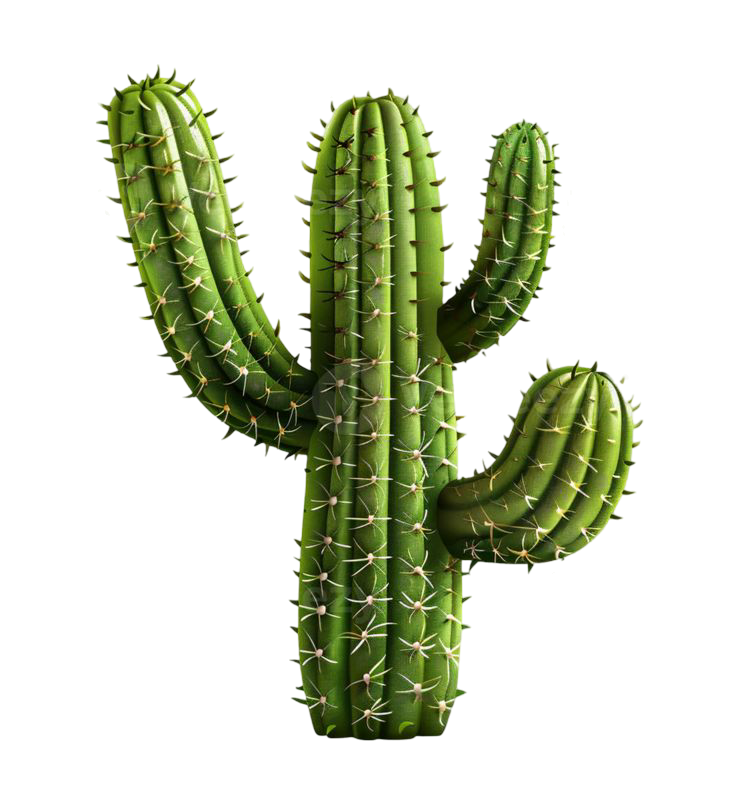
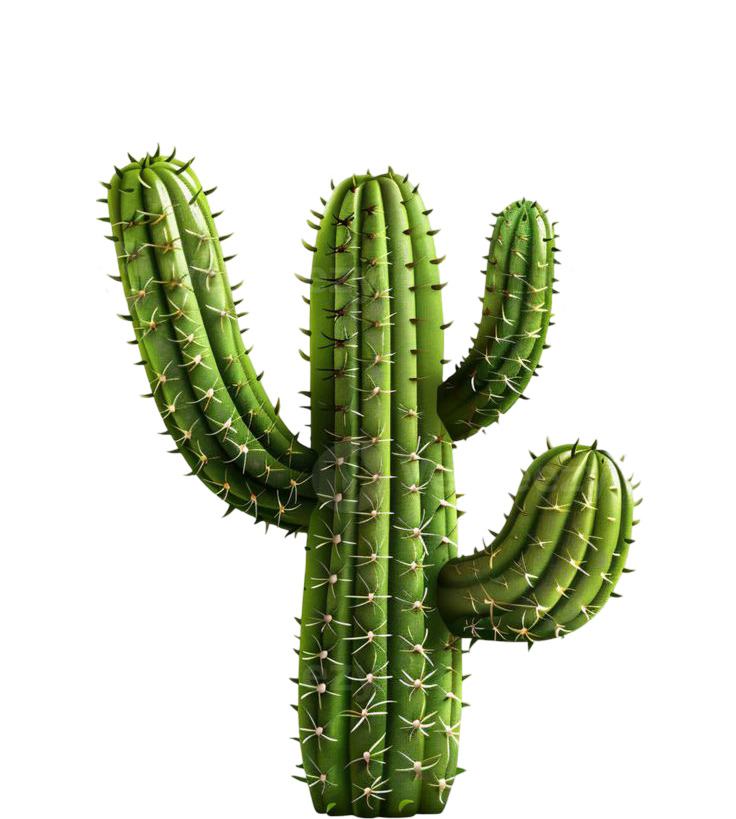
v0.0.2.6.0

diff --git a/game.js b/game.js
@@ -64,24 +64,25 @@ const DROP_LIFETIME = 180000; // 3 минуты
 
 // Типы монстров
 const MONSTER_TYPES = {
-  zombie:   { name:'Зомби', texKey:'monster_zombie', hp:35, damage:15, moveDelay:600, chaseRange:4, attackRange:1, attackCD:800, spawnTime:'night', biomes:['grass','forest','snow'], maxPerChunk:2, color:'#5a7a3a', xpReward:25, drops:[{name:'Кость',emoji:'🦴',texKey:'item_bone',chance:0.6},{name:'Гнилая плоть',emoji:'🥩',texKey:'item_rotten_flesh',chance:0.3}] },
-  skeleton: { name:'Скелет', texKey:'monster_skeleton', hp:25, damage:10, moveDelay:400, chaseRange:5, attackRange:2, attackCD:600, spawnTime:'night', biomes:['stone','grass','snow'], maxPerChunk:2, color:'#ddd', xpReward:20, drops:[{name:'Кость',emoji:'🦴',texKey:'item_bone',chance:0.8},{name:'Лук',emoji:'🏹',texKey:'item_bow',chance:0.1}] },
-  fallen:   { name:'Падший', texKey:'monster_fallen', hp:20, damage:7, moveDelay:300, chaseRange:6, attackRange:1, attackCD:400, spawnTime:'night', biomes:['grass','sand'], maxPerChunk:2, color:'#cc4444', xpReward:15, drops:[{name:'Клык',emoji:'🦷',texKey:'item_fang',chance:0.5},{name:'Кожа',emoji:'🧥',texKey:'item_leather',chance:0.4}] },
-  demon:    { name:'Демон', texKey:'monster_demon', hp:50, damage:20, moveDelay:450, chaseRange:7, attackRange:2, attackCD:700, spawnTime:'night', biomes:['stone'], maxPerChunk:1, color:'#ff4400', burnsInDay:true, xpReward:50, drops:[{name:'Сердце демона',emoji:'❤️🔥',texKey:'item_demon_heart',chance:0.4},{name:'Пепел',emoji:'🪶',texKey:'item_ash',chance:0.7}] },
-  ghoul:    { name:'Упырь', texKey:'monster_ghoul', hp:30, damage:12, moveDelay:250, chaseRange:8, attackRange:1, attackCD:350, spawnTime:'night', biomes:['forest','grass'], maxPerChunk:2, color:'#9966cc', burnsInDay:true, xpReward:30, drops:[{name:'Клык',emoji:'🦷',texKey:'item_fang',chance:0.5},{name:'Зелье',emoji:'🧪',texKey:'item_potion',chance:0.2}] },
-  shadow:   { name:'Тень', texKey:'monster_shadow', hp:15, damage:8, moveDelay:500, chaseRange:6, attackRange:2, attackCD:500, spawnTime:'night', biomes:['stone','forest'], maxPerChunk:1, color:'#222244', burnsInDay:true, xpReward:35, drops:[{name:'Тёмная пыль',emoji:'✨',texKey:'item_dark_dust',chance:0.6},{name:'Душа',emoji:'👻',texKey:'item_soul',chance:0.3}] },
-  imp:      { name:'Бес', texKey:'monster_imp', hp:18, damage:6, moveDelay:350, chaseRange:5, attackRange:3, attackCD:500, spawnTime:'any', biomes:['stone','sand'], maxPerChunk:1, color:'#ff8800', xpReward:18, drops:[{name:'Рог беса',emoji:'👿',texKey:'item_imp_horn',chance:0.5},{name:'Сера',emoji:'💛',texKey:'item_sulfur',chance:0.4}] },
-  wolf:     { name:'Волк', texKey:'monster_wolf', hp:22, damage:9, moveDelay:350, chaseRange:5, attackRange:1, attackCD:450, spawnTime:'day', biomes:['forest','grass','snow'], maxPerChunk:1, color:'#888', neutral:true, xpReward:12, drops:[{name:'Волчья шкура',emoji:'🐺',texKey:'item_wolf_pelt',chance:0.5},{name:'Клык',emoji:'🦷',texKey:'item_fang',chance:0.6}] },
-  boar:     { name:'Кабан', texKey:'monster_boar', hp:30, damage:11, moveDelay:400, chaseRange:4, attackRange:1, attackCD:500, spawnTime:'day', biomes:['grass','forest'], maxPerChunk:1, color:'#6b4c2b', neutral:true, xpReward:15, drops:[{name:'Кабанья шкура',emoji:'🐗',texKey:'item_boar_pelt',chance:0.5},{name:'Мясо',emoji:'🥩',texKey:'item_meat',chance:0.7}] },
-  spider: { name:'🕷️ Паук', texKey:'monster_spider', hp:15, damage:8, moveDelay:350, chaseRange:5, attackRange:1, attackCD:600, spawnTime:'any', biomes:['forest','grass'], maxPerChunk:1, color:'#444444', xpReward:12, drops:[{name:'🕸️ Паутина',emoji:'🕸️',texKey:'item_web',chance:0.7},{name:'🦷 Ядовитый клык',emoji:'🦷',texKey:'item_venom_fang',chance:0.3}] }
+  zombie:   { name:'Зомби', texKey:'monster_zombie', hp:35, damage:15, moveDelay:600, chaseRange:4, attackRange:1, attackCD:800, spawnTime:'night', biomes:['grass','forest','snow'], maxPerChunk:2, color:'#5a7a3a', xpReward:25, drops:[{name:'Кость',emoji:'🦴',texKey:'item_bone',chance:0.6},{name:'Гнилая плоть',emoji:'🥩',texKey:'item_rotten_flesh',chance:0.3}], spawnChance: 0.015},
+  skeleton: { name:'Скелет', texKey:'monster_skeleton', hp:25, damage:10, moveDelay:400, chaseRange:5, attackRange:2, attackCD:600, spawnTime:'night', biomes:['stone','grass','snow'], maxPerChunk:2, color:'#ddd', xpReward:20, drops:[{name:'Кость',emoji:'🦴',texKey:'item_bone',chance:0.8},{name:'Лук',emoji:'🏹',texKey:'item_bow',chance:0.1}], spawnChance: 0.012 },
+  fallen:   { name:'Падший', texKey:'monster_fallen', hp:20, damage:7, moveDelay:300, chaseRange:6, attackRange:1, attackCD:400, spawnTime:'night', biomes:['grass','sand'], maxPerChunk:2, color:'#cc4444', xpReward:15, drops:[{name:'Клык',emoji:'🦷',texKey:'item_fang',chance:0.5},{name:'Кожа',emoji:'🧥',texKey:'item_leather',chance:0.4}], spawnChance: 0.010 },
+  demon:    { name:'Демон', texKey:'monster_demon', hp:50, damage:20, moveDelay:450, chaseRange:7, attackRange:2, attackCD:700, spawnTime:'night', biomes:['stone'], maxPerChunk:1, color:'#ff4400', burnsInDay:true, xpReward:50, drops:[{name:'Сердце демона',emoji:'❤️🔥',texKey:'item_demon_heart',chance:0.4},{name:'Пепел',emoji:'🪶',texKey:'item_ash',chance:0.7}], spawnChance: 0.005 },
+  ghoul:    { name:'Упырь', texKey:'monster_ghoul', hp:30, damage:12, moveDelay:250, chaseRange:8, attackRange:1, attackCD:350, spawnTime:'night', biomes:['forest','grass'], maxPerChunk:2, color:'#9966cc', burnsInDay:true, xpReward:30, drops:[{name:'Клык',emoji:'🦷',texKey:'item_fang',chance:0.5},{name:'Зелье',emoji:'🧪',texKey:'item_potion',chance:0.2}], spawnChance: 0.010 },
+  shadow:   { name:'Тень', texKey:'monster_shadow', hp:15, damage:8, moveDelay:500, chaseRange:6, attackRange:2, attackCD:500, spawnTime:'night', biomes:['stone','forest'], maxPerChunk:1, color:'#222244', burnsInDay:true, xpReward:35, drops:[{name:'Тёмная пыль',emoji:'✨',texKey:'item_dark_dust',chance:0.6},{name:'Душа',emoji:'👻',texKey:'item_soul',chance:0.3}], spawnChance: 0.006 },
+  imp:      { name:'Бес', texKey:'monster_imp', hp:18, damage:6, moveDelay:350, chaseRange:5, attackRange:3, attackCD:500, spawnTime:'any', biomes:['stone','sand'], maxPerChunk:1, color:'#ff8800', xpReward:18, drops:[{name:'Рог беса',emoji:'👿',texKey:'item_imp_horn',chance:0.5},{name:'Сера',emoji:'💛',texKey:'item_sulfur',chance:0.4}], spawnChance: 0.004 },
+  wolf:     { name:'Волк', texKey:'monster_wolf', hp:22, damage:9, moveDelay:350, chaseRange:5, attackRange:1, attackCD:450, spawnTime:'day', biomes:['forest','grass','snow'], maxPerChunk:1, color:'#888', neutral:true, xpReward:12, drops:[{name:'Волчья шкура',emoji:'🐺',texKey:'item_wolf_pelt',chance:0.5},{name:'Клык',emoji:'🦷',texKey:'item_fang',chance:0.6}], spawnChance: 0.007 },
+  boar:     { name:'Кабан', texKey:'monster_boar', hp:30, damage:11, moveDelay:400, chaseRange:4, attackRange:1, attackCD:500, spawnTime:'day', biomes:['grass','forest'], maxPerChunk:1, color:'#6b4c2b', neutral:true, xpReward:15, drops:[{name:'Кабанья шкура',emoji:'🐗',texKey:'item_boar_pelt',chance:0.5},{name:'Мясо',emoji:'🥩',texKey:'item_meat',chance:0.7}], spawnChance: 0.005 },
+  spider:   { name:'🕷️ Паук', texKey:'monster_spider', hp:15, damage:8, moveDelay:350, chaseRange:5, attackRange:1, attackCD:600, spawnTime:'any', biomes:['forest','grass'], maxPerChunk:1, color:'#444444', xpReward:12, drops:[{name:'🕸️ Паутина',emoji:'🕸️',texKey:'item_web',chance:0.7},{name:'🦷 Ядовитый клык',emoji:'🦷',texKey:'item_venom_fang',chance:0.3}], spawnChance: 0.003 },
+  snake:    { name:'Змея', texKey:'monster_snake', hp:15, damage:6, moveDelay:350, chaseRange:5, attackRange:2, attackCD:800, spawnTime:'any', biomes:['sand'], maxPerChunk:1, color:'#137400', xpReward:12, drops:[{name:'Кожа',emoji:'🧥',texKey:'item_leather',chance:0.5},{name:'🦷 Ядовитый клык',emoji:'🦷',texKey:'item_venom_fang',chance:0.4}], spawnChance: 0.005 }
 };
 
 // Мирные
 const PEACEFUL_TYPES = {
-  cow:    { name:'Корова', texKey:'animal_cow', hp:15, color:'#f5f5dc', dropName:'🥩 Мясо', dropEmoji:'🥩', dropTexKey:'item_meat', dropHeal:20, xpReward:5, biomes:['grass'], maxPerChunk:1 },
-  deer:   { name:'Олень', texKey:'animal_deer', hp:12, color:'#c4a46c', dropName:'🍖 Оленина', dropEmoji:'🍖', dropTexKey:'item_venison', dropHeal:15, xpReward:8, biomes:['forest', 'snow'], maxPerChunk:1 },
-  rabbit: { name:'Кролик', texKey:'animal_rabbit', hp:5, color:'#ccc', dropName:'🍗 Крольчатина', dropEmoji:'🍗', dropTexKey:'item_rabbit_meat', dropHeal:8, xpReward:3, biomes:['grass','forest'], maxPerChunk:2 },
-  chicken:{ name:'Курица', texKey:'animal_chicken', hp:3, color:'#fff', dropName:'🍳 Яйцо', dropEmoji:'🍳', dropTexKey:'item_egg', dropHeal:5, xpReward:2, biomes:['grass'], maxPerChunk:1 }
+  cow:    { name:'Корова', texKey:'animal_cow', hp:15, color:'#f5f5dc', dropName:'🥩 Мясо', dropEmoji:'🥩', dropTexKey:'item_meat', dropHeal:20, xpReward:5, biomes:['grass'], maxPerChunk:1, spawnChance: 0.003 },
+  deer:   { name:'Олень', texKey:'animal_deer', hp:12, color:'#c4a46c', dropName:'🍖 Оленина', dropEmoji:'🍖', dropTexKey:'item_venison', dropHeal:15, xpReward:8, biomes:['forest', 'snow'], maxPerChunk:1, spawnChance: 0.003 },
+  rabbit: { name:'Кролик', texKey:'animal_rabbit', hp:5, color:'#ccc', dropName:'🍗 Крольчатина', dropEmoji:'🍗', dropTexKey:'item_rabbit_meat', dropHeal:8, xpReward:3, biomes:['grass','forest'], maxPerChunk:2, spawnChance: 0.006 },
+  chicken:{ name:'Курица', texKey:'animal_chicken', hp:3, color:'#fff', dropName:'🍳 Яйцо', dropEmoji:'🍳', dropTexKey:'item_egg', dropHeal:5, xpReward:2, biomes:['grass'], maxPerChunk:1, spawnChance: 0.008 }
 };
 
 // Ресурсы
@@ -91,8 +92,8 @@ const RESOURCE_TYPES = {
   stone:  { name:'Камень', texKey:'stone', hp:30, color:'#888', h:8, drops:[{name:'Булыжник',emoji:'🪨',texKey:'item_rock',chance:1.0,count:2},{name:'Кремень',emoji:'💎',texKey:'item_flint',chance:0.3,count:1}] },
   ore:    { name:'Руда', texKey:'ore', hp:40, color:'#5b9bd5', h:9, drops:[{name:'Железная руда',emoji:'⛏️',texKey:'item_iron_ore',chance:1.0,count:2},{name:'Золотой самородок',emoji:'🌟',texKey:'item_gold_nugget',chance:0.1,count:1}] },
   cactus: { name:'Кактус', texKey:'cactus', hp:15, color:'#5a8a3a', h:12, drops:[{name:'Кактус',emoji:'🌵',texKey:'item_cactus',chance:1.0,count:1},{name:'Вода',emoji:'💧',texKey:'item_water',chance:0.5,count:1}] },
-snow_tree: { name:'Заснеженное дерево', texKey:'snow_tree', hp:25, color:'#d0d8e0', h:14, drops:[{name:'Древесина',emoji:'🪵',texKey:'item_wood',chance:1.0,count:2},{name:'Палка',emoji:'🥢',texKey:'item_stick',chance:0.5,count:1},{name:'Снежок',emoji:'❄️',texKey:'item_snowball',chance:0.6,count:1}] },
-ice_rock: { name:'Ледяной камень', texKey:'stone', hp:35, color:'#c8d8f0', h:8, drops:[{name:'Булыжник',emoji:'🪨',texKey:'item_rock',chance:1.0,count:2},{name:'Лёд',emoji:'🧊',texKey:'item_ice',chance:0.5,count:1}] }
+  snow_tree: { name:'Заснеженное дерево', texKey:'snow_tree', hp:25, color:'#d0d8e0', h:14, drops:[{name:'Древесина',emoji:'🪵',texKey:'item_wood',chance:1.0,count:2},{name:'Палка',emoji:'🥢',texKey:'item_stick',chance:0.5,count:1},{name:'Снежок',emoji:'❄️',texKey:'item_snowball',chance:0.6,count:1}] },
+  ice_rock: { name:'Ледяной камень', texKey:'stone', hp:35, color:'#c8d8f0', h:8, drops:[{name:'Булыжник',emoji:'🪨',texKey:'item_rock',chance:0.5,count:2},{name:'Лёд',emoji:'🧊',texKey:'item_ice',chance:0.5,count:1}] }
 };
 
 // Рецепты
@@ -169,6 +170,7 @@ const TEXTURE_PATHS = {
   monster_shadow:'img/monster_shadow.png',
   monster_imp:'img/monster_imp.png',
   monster_spider: 'img/monster_spider.png',
+  monster_snake: 'img/monster_snake.png',
   monster_wolf: 'img/monster_wolf.png',
   monster_boar:'img/monster_boar.png',
   monster_default:'img/monster_default.png',
@@ -455,32 +457,45 @@ function smoothNoise(x, y) {
   return hash(ix,iy)*(1-fx)*(1-fy)+hash(ix+1,iy)*fx*(1-fy)+hash(ix,iy+1)*(1-fx)*fy+hash(ix+1,iy+1)*fx*fy;
 }
 function getTile(tx, ty) {
-  // Температура и влажность — крупные биомы (низкая частота = плавнее)
-  let temperature = smoothNoise(tx * 0.04 + 100, ty * 0.04 + 100);  // 0..1
-  let humidity = smoothNoise(tx * 0.04 + 300, ty * 0.04 + 300);      // 0..1
-  
-  // Вода — отдельный шум (озёра, не лужи)
+  let temperature = smoothNoise(tx * 0.04 + 100, ty * 0.04 + 100);
+  let humidity = smoothNoise(tx * 0.04 + 300, ty * 0.04 + 300);
   let waterNoise = smoothNoise(tx * 0.06 + 500, ty * 0.06 + 500);
   
-  // Вода: только где шум высокий (озёра, а не везде)
-  if (waterNoise > 0.55) return { base: 1, biome: 'water' };
+  // Вода
+  if (waterNoise > 0.62) return { base: 1, biome: 'water', blend: null };
   
-  // Снег: холодно + любая влажность
-  if (temperature < 0.3) return { base: 5, biome: 'snow' };
+  // Снег — с переходом к траве/лесу
+  if (temperature < 0.35) {
+    if (temperature < 0.28) return { base: 5, biome: 'snow', blend: null };
+    // Переходная зона снег → трава/лес
+    let blendAmount = (0.35 - temperature) / 0.07; // 1 = снег, 0 = трава
+    let otherBase = humidity > 0.55 ? 0 : 0; // forest или grass
+    return { base: 5, biome: 'snow', blend: { base: otherBase, amount: 1 - blendAmount } };
+  }
   
-  // Пустыня: жарко + сухо
-  if (temperature > 0.65 && humidity < 0.45) return { base: 2, biome: 'sand' };
+  // Пустыня — с переходом к траве
+  if (temperature > 0.60 && humidity < 0.50) {
+    if (temperature > 0.68) return { base: 2, biome: 'sand', blend: null };
+    let blendAmount = (temperature - 0.60) / 0.08;
+    return { base: 0, biome: 'grass', blend: { base: 2, amount: blendAmount } };
+  }
   
-  // Камень: высокая температура или хаотично
-  if (temperature > 0.7 || (temperature > 0.5 && humidity < 0.3)) return { base: 3, biome: 'stone' };
+  // Камень — с переходом
+  if (temperature > 0.68 || (temperature > 0.50 && humidity < 0.30)) {
+    if (temperature > 0.72 || humidity < 0.22) return { base: 3, biome: 'stone', blend: null };
+    let blendAmount = 0.5;
+    return { base: 0, biome: 'grass', blend: { base: 3, amount: blendAmount } };
+  }
   
-  // Лес: средняя температура + высокая влажность
-  if (humidity > 0.55) return { base: 0, biome: 'forest' };
+  // Лес — с переходом к траве
+  if (humidity > 0.50) {
+    if (humidity > 0.60) return { base: 0, biome: 'forest', blend: null };
+    let blendAmount = (0.60 - humidity) / 0.10;
+    return { base: 0, biome: 'forest', blend: { base: 0, amount: blendAmount } };
+  }
   
-  // Трава: всё остальное
-  return { base: 0, biome: 'grass' };
+  return { base: 0, biome: 'grass', blend: null };
 }
-
 function tileToScreen(rx, ry) {
   let W = canvas.width, H = canvas.height;
   return { x:((rx-ry)*TILE_HW)*zoom+W/2+camX, y:((rx+ry)*TILE_HH)*zoom+H/2+camY };
@@ -810,31 +825,76 @@ if (tile.biome === 'snow') {
   }
 }
 
-  let peaceChance = tod==='day'?0.08:0.02;
-  if (h < peaceChance && (tile.biome==='grass'||tile.biome==='forest')) {
-    let pKeys = Object.keys(PEACEFUL_TYPES);
-    let suitable = pKeys.filter(function(k){let pt=PEACEFUL_TYPES[k];if(pt.biomes.indexOf(tile.biome)===-1)return false;if(chunk&&countPeacefulInChunk(chunk,k)>=pt.maxPerChunk)return false;return true;});
-    if (suitable.length>0) { let pIdx=Math.floor(h*1000)%suitable.length, pt=PEACEFUL_TYPES[suitable[pIdx]];
-      entities.push(createEntity({type:'peaceful',peacefulKey:suitable[pIdx],tx,ty,texKey:pt.texKey,name:pt.name,hp:pt.hp,maxHp:pt.hp,dropName:pt.dropName,dropEmoji:pt.dropEmoji,dropTexKey:pt.dropTexKey,dropHeal:pt.dropHeal,xpReward:pt.xpReward,h:10,color:pt.color,fleeTimer:0,attackCooldown:0,ai:{state:'idle',wanderTarget:null,idleTimer:1000+Math.random()*3000,moveTimer:0,moveCooldown:0}})); }
+if (tile.biome==='grass'||tile.biome==='forest'||tile.biome==='snow') {
+  let pKeys = Object.keys(PEACEFUL_TYPES);
+  let suitable = [];
+  for (let k = 0; k < pKeys.length; k++) {
+    let key = pKeys[k];
+    let pt = PEACEFUL_TYPES[key];
+    
+    if (pt.biomes.indexOf(tile.biome) === -1) continue;
+    if (chunk && countPeacefulInChunk(chunk, key) >= pt.maxPerChunk) continue;
+    
+    let chance = pt.spawnChance;
+    if (tod === 'night') chance /= 3;
+    if (Math.random() >= chance) continue;
+    
+    suitable.push(key);
   }
+  if (suitable.length > 0) {
+    let pIdx = Math.floor(Math.random() * suitable.length);
+    let pt = PEACEFUL_TYPES[suitable[pIdx]];
+    entities.push(createEntity({
+      type:'peaceful', peacefulKey:suitable[pIdx],
+      tx, ty, texKey:pt.texKey, name:pt.name,
+      hp:pt.hp, maxHp:pt.hp,
+      dropName:pt.dropName, dropEmoji:pt.dropEmoji, dropTexKey:pt.dropTexKey,
+      dropHeal:pt.dropHeal, xpReward:pt.xpReward,
+      h:10, color:pt.color, fleeTimer:0, attackCooldown:0,
+      ai:{ state:'idle', wanderTarget:null, idleTimer:1000+Math.random()*3000, moveTimer:0, moveCooldown:0 }
+    }));
+  }
+}
   
   let nearFire = false;
   if (tod==='night') { let allEnts=getVisibleEntities(); for(let i=0;i<allEnts.length;i++){let e=allEnts[i];if(e.type==='campfire'){if(Math.abs(e.tx-tx)+Math.abs(e.ty-ty)<=e.lightRadius){nearFire=true;break;}}} }
   
-  if (h2<0.04 && !nearFire) {
-    let typeKeys=Object.keys(MONSTER_TYPES);
-    let suitable=typeKeys.filter(function(k){
-      let mt=MONSTER_TYPES[k];
-      if(mt.spawnTime!==tod&&mt.spawnTime!=='any')return false;
-      if(mt.biomes.indexOf(tile.biome)===-1)return false;
-      if(chunk&&countMonstersInChunk(chunk,k)>=mt.maxPerChunk)return false;
-      if(k==='imp'&&Math.random()>0.3)return false;return true;
-            // Пауки днём реже
-    if (k === 'spider' && tod === 'day' && Math.random() > 0.3) return false;});
-    if(suitable.length>0){let typeIdx=Math.floor(h2*1000)%suitable.length,mt=MONSTER_TYPES[suitable[typeIdx]];
-
-      entities.push(createEntity({type:'monster',monsterKey:suitable[typeIdx],tx,ty,texKey:mt.texKey,name:mt.name,hp:mt.hp,maxHp:mt.hp,damage:mt.damage,moveDelay:mt.moveDelay,chaseRange:mt.chaseRange,attackRange:mt.attackRange,attackCooldownTime:mt.attackCD,attackCooldown:0,h:16,color:mt.color,burnsInDay:mt.burnsInDay||false,neutral:mt.neutral||false,xpReward:mt.xpReward,drops:mt.drops||[],ai:{state:'idle',wanderTarget:null,idleTimer:1000+Math.floor(h2*3000),moveTimer:0,moveCooldown:0,forgetTimer:0}}));}
+if (!nearFire) {
+  let typeKeys = Object.keys(MONSTER_TYPES);
+  let suitable = [];
+  for (let k = 0; k < typeKeys.length; k++) {
+    let key = typeKeys[k];
+    let mt = MONSTER_TYPES[key];
+    
+    if (mt.spawnChance !== undefined && mt.spawnChance <= 0) continue;
+    if (mt.spawnTime !== tod && mt.spawnTime !== 'any') continue;
+    if (mt.biomes.indexOf(tile.biome) === -1) continue;
+    if (chunk && countMonstersInChunk(chunk, key) >= mt.maxPerChunk) continue;
+    if (key === 'imp' && Math.random() > 0.3) continue;
+    if (key === 'spider' && tod === 'day' && Math.random() > 0.3) continue;
+    
+    let ownChance = mt.spawnChance || 0.01;
+    if (Math.random() >= ownChance) continue;
+    
+    suitable.push(key);
   }
+  
+  if (suitable.length > 0) {
+    let typeIdx = Math.floor(Math.random() * suitable.length);
+    let mt = MONSTER_TYPES[suitable[typeIdx]];
+    entities.push(createEntity({
+      type:'monster', monsterKey:suitable[typeIdx],
+      tx, ty, texKey:mt.texKey, name:mt.name,
+      hp:mt.hp, maxHp:mt.hp, damage:mt.damage,
+      moveDelay:mt.moveDelay, chaseRange:mt.chaseRange,
+      attackRange:mt.attackRange, attackCooldownTime:mt.attackCD,
+      attackCooldown:0, h:16, color:mt.color,
+      burnsInDay:mt.burnsInDay||false, neutral:mt.neutral||false,
+      xpReward:mt.xpReward, drops:mt.drops||[],
+      ai:{ state:'idle', wanderTarget:null, idleTimer:1000+Math.floor(Math.random()*3000), moveTimer:0, moveCooldown:0, forgetTimer:0 }
+    }));
+  }
+}
   return entities;
 }
 
@@ -842,7 +902,10 @@ function ensureChunk(cx, cy) {
   let key = cx+','+cy; if(chunks[key]) return chunks[key];
   let sx=cx*CHUNK_SIZE, sy=cy*CHUNK_SIZE, tiles=[], entities=[];
   let tmp = {cx,cy,tiles,entities}; chunks[key]=tmp;
-  for(let dx=0;dx<CHUNK_SIZE;dx++)for(let dy=0;dy<CHUNK_SIZE;dy++){let t=getTile(sx+dx,sy+dy);tiles.push({tx:sx+dx,ty:sy+dy,base:t.base,biome:t.biome});}
+  for(let dx=0;dx<CHUNK_SIZE;dx++)for(let dy=0;dy<CHUNK_SIZE;dy++){
+    let t=getTile(sx+dx,sy+dy);
+    tiles.push({ tx:sx+dx, ty:sy+dy, base:t.base, biome:t.biome, blend:t.blend });
+  }
   for(let dx=0;dx<CHUNK_SIZE;dx++)for(let dy=0;dy<CHUNK_SIZE;dy++){let ents=getEntitiesAt(sx+dx,sy+dy,tmp);for(let i=0;i<ents.length;i++)entities.push(ents[i]);}
   return tmp;
 }
@@ -1335,7 +1398,9 @@ if(base===5){
 }
     ctx.restore();
 }
-function drawTileTex(tx, ty, base) {
+function drawTileTex(tx, ty, tileData) {
+  let base = tileData.base;
+  let blend = tileData.blend;
   let pos = tileToScreen(tx, ty);
   let keys = ['tile_grass', 'tile_water', 'tile_sand', 'tile_stone', '', 'tile_snow'];
   let img = getTex(keys[base]);
@@ -1343,23 +1408,37 @@ function drawTileTex(tx, ty, base) {
   let hh = TILE_HH * zoom;
 
   ctx.save();
+  
+  // Clipping region (ромб)
+  ctx.beginPath();
+  ctx.moveTo(pos.x, pos.y - hh);
+  ctx.lineTo(pos.x + hw, pos.y);
+  ctx.lineTo(pos.x, pos.y + hh);
+  ctx.lineTo(pos.x - hw, pos.y);
+  ctx.closePath();
+  ctx.clip();
+  
   if (img) {
-    // Сначала создаём clipping region в форме ромба
-    ctx.beginPath();
-    ctx.moveTo(pos.x, pos.y - hh);       // верх
-    ctx.lineTo(pos.x + hw, pos.y);       // право
-    ctx.lineTo(pos.x, pos.y + hh);       // низ
-    ctx.lineTo(pos.x - hw, pos.y);       // лево
-    ctx.closePath();
-    ctx.clip();  // обрезаем всё что вне ромба
-    
-    // Теперь рисуем текстуру — она будет обрезана ромбом
     ctx.drawImage(img, pos.x - hw, pos.y - hh, TILE_W * zoom, TILE_H * zoom);
-  } else {
+  }
+  
+  // Смешивание с соседним биомом
+  if (blend && blend.amount > 0) {
+    let blendImg = getTex(keys[blend.base]);
+    if (blendImg) {
+      ctx.globalAlpha = blend.amount;
+      ctx.drawImage(blendImg, pos.x - hw, pos.y - hh, TILE_W * zoom, TILE_H * zoom);
+      ctx.globalAlpha = 1;
+    }
+  }
+  
+  // Если нет основной текстуры — рисуем кодом
+  if (!img) {
     ctx.restore();
     drawTileCode(tx, ty, base);
     return;
   }
+  
   ctx.restore();
 }
 
@@ -1540,7 +1619,10 @@ function render(){
   ctx.clearRect(0,0,W,H);ctx.fillStyle='#111122';ctx.fillRect(0,0,W,H);
   let objs=collectVisibleObjects();
   objs.tiles.sort(function(a,b){return(a.tx+a.ty)-(b.tx+b.ty);});
-  for(let i=0;i<objs.tiles.length;i++){let t=objs.tiles[i];drawTileTex(t.tx,t.ty,t.base);}
+  for(let i=0;i<objs.tiles.length;i++){
+    let t=objs.tiles[i];
+    drawTileTex(t.tx, t.ty, t);
+  }
   
   // Свет от костров
   for(let i=0;i<objs.entities.length;i++){
@@ -1838,6 +1920,18 @@ for(let i = 0; i < allEntities.length; i++){
   requestAnimationFrame(gameLoop);
 }
 
-player.tx=0;player.ty=0;player.rx=0;player.ry=0;player.xpToNext=getXpForLevel(1);
-let startPos=tileToScreen(0,0);camX=canvas.width/2-startPos.x;camY=canvas.height/2-startPos.y;
+player.tx=0;player.ty=0;
+// Проверка что не на воде при первом спавне
+let safety=0;
+while(getTile(player.tx,player.ty).base===1 && safety<100){
+  player.tx=Math.floor(Math.random()*20)-10;
+  player.ty=Math.floor(Math.random()*20)-10;
+  safety++;
+}
+player.rx=player.tx;player.ry=player.ty;
+player.xpToNext=getXpForLevel(1);
+player.xpToNext=getXpForLevel(1);
+let startPos=tileToScreen(player.tx, player.ty);
+camX=canvas.width/2-startPos.x;
+camY=canvas.height/2-startPos.y;
 loadTextures().then(function(){requestAnimationFrame(gameLoop);addLog('🎮 v2.1 — Дроп на землю + Drag&Drop!');updateInventoryUI();});

diff --git a/index.html b/index.html
@@ -52,6 +52,6 @@
 <canvas id="game"></canvas>
 
 <script src="game.js"></script>
-<footer>v0.0.2.5.0</footer>
+<footer>v0.0.2.6.0</footer>
 </body>
 </html>